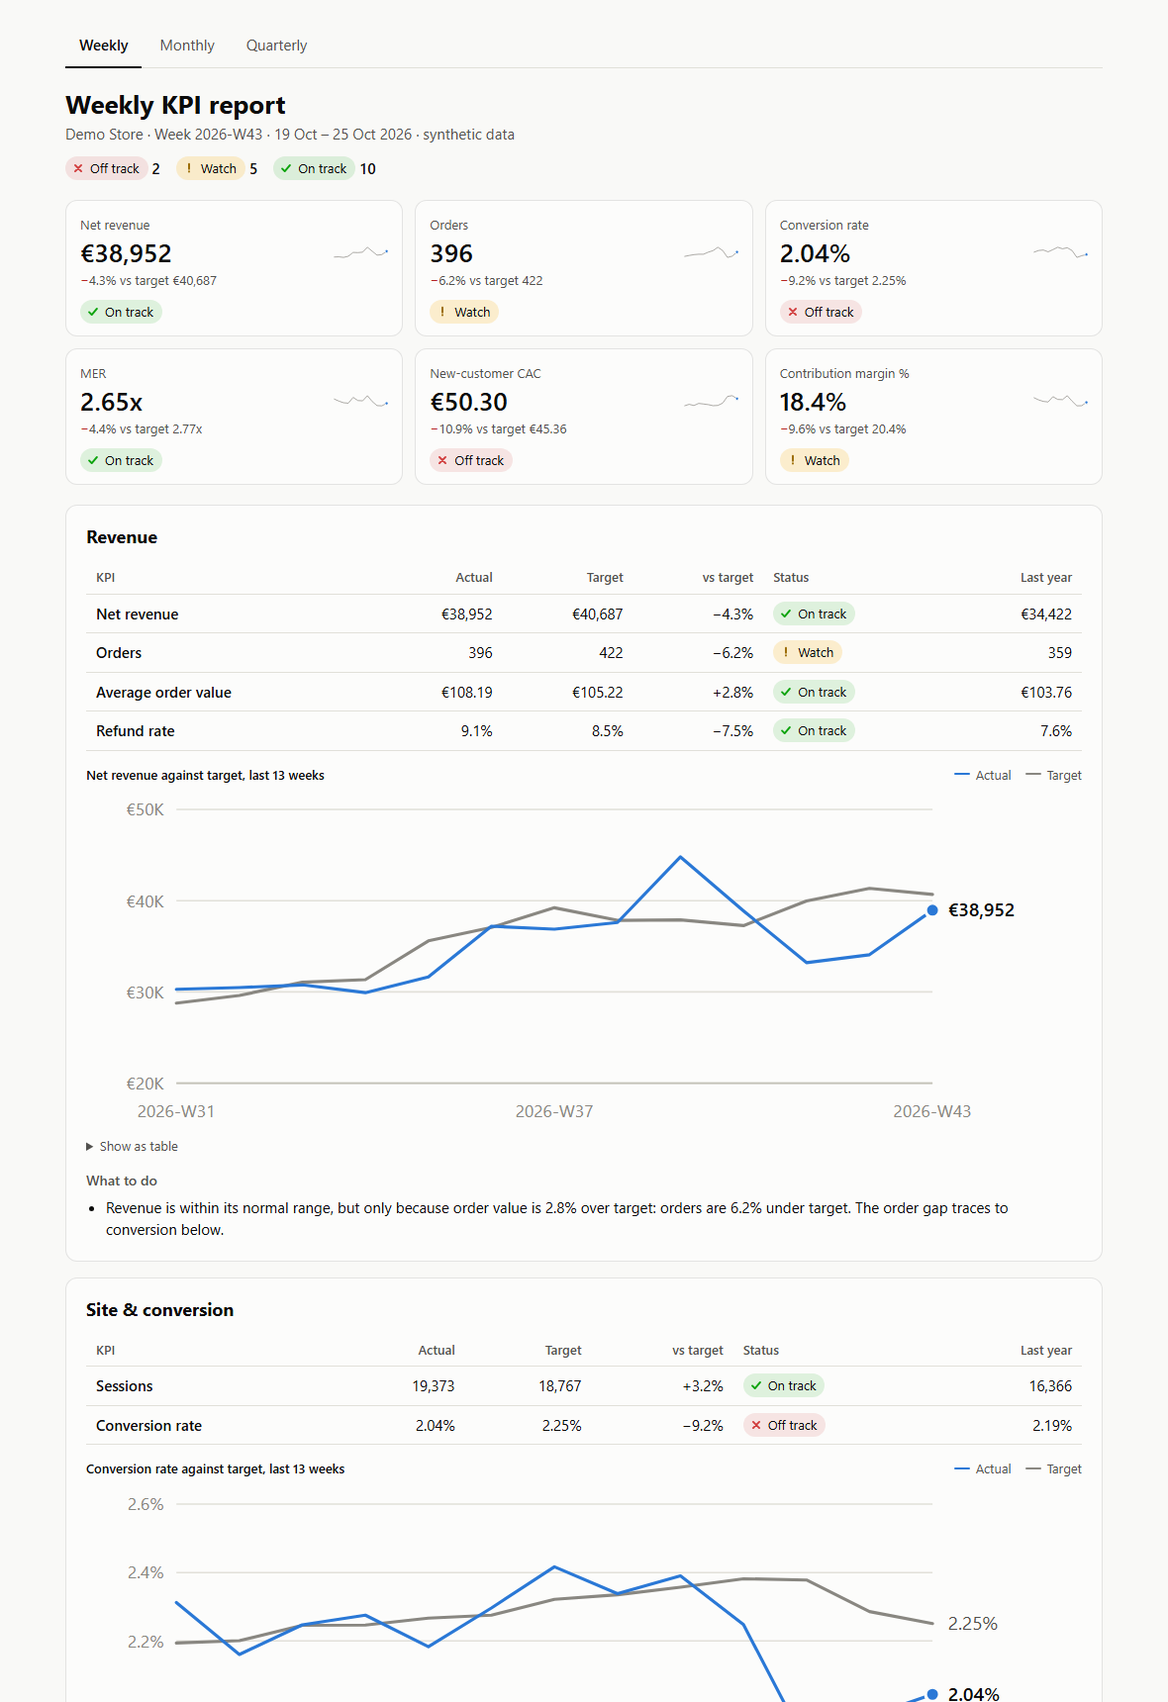
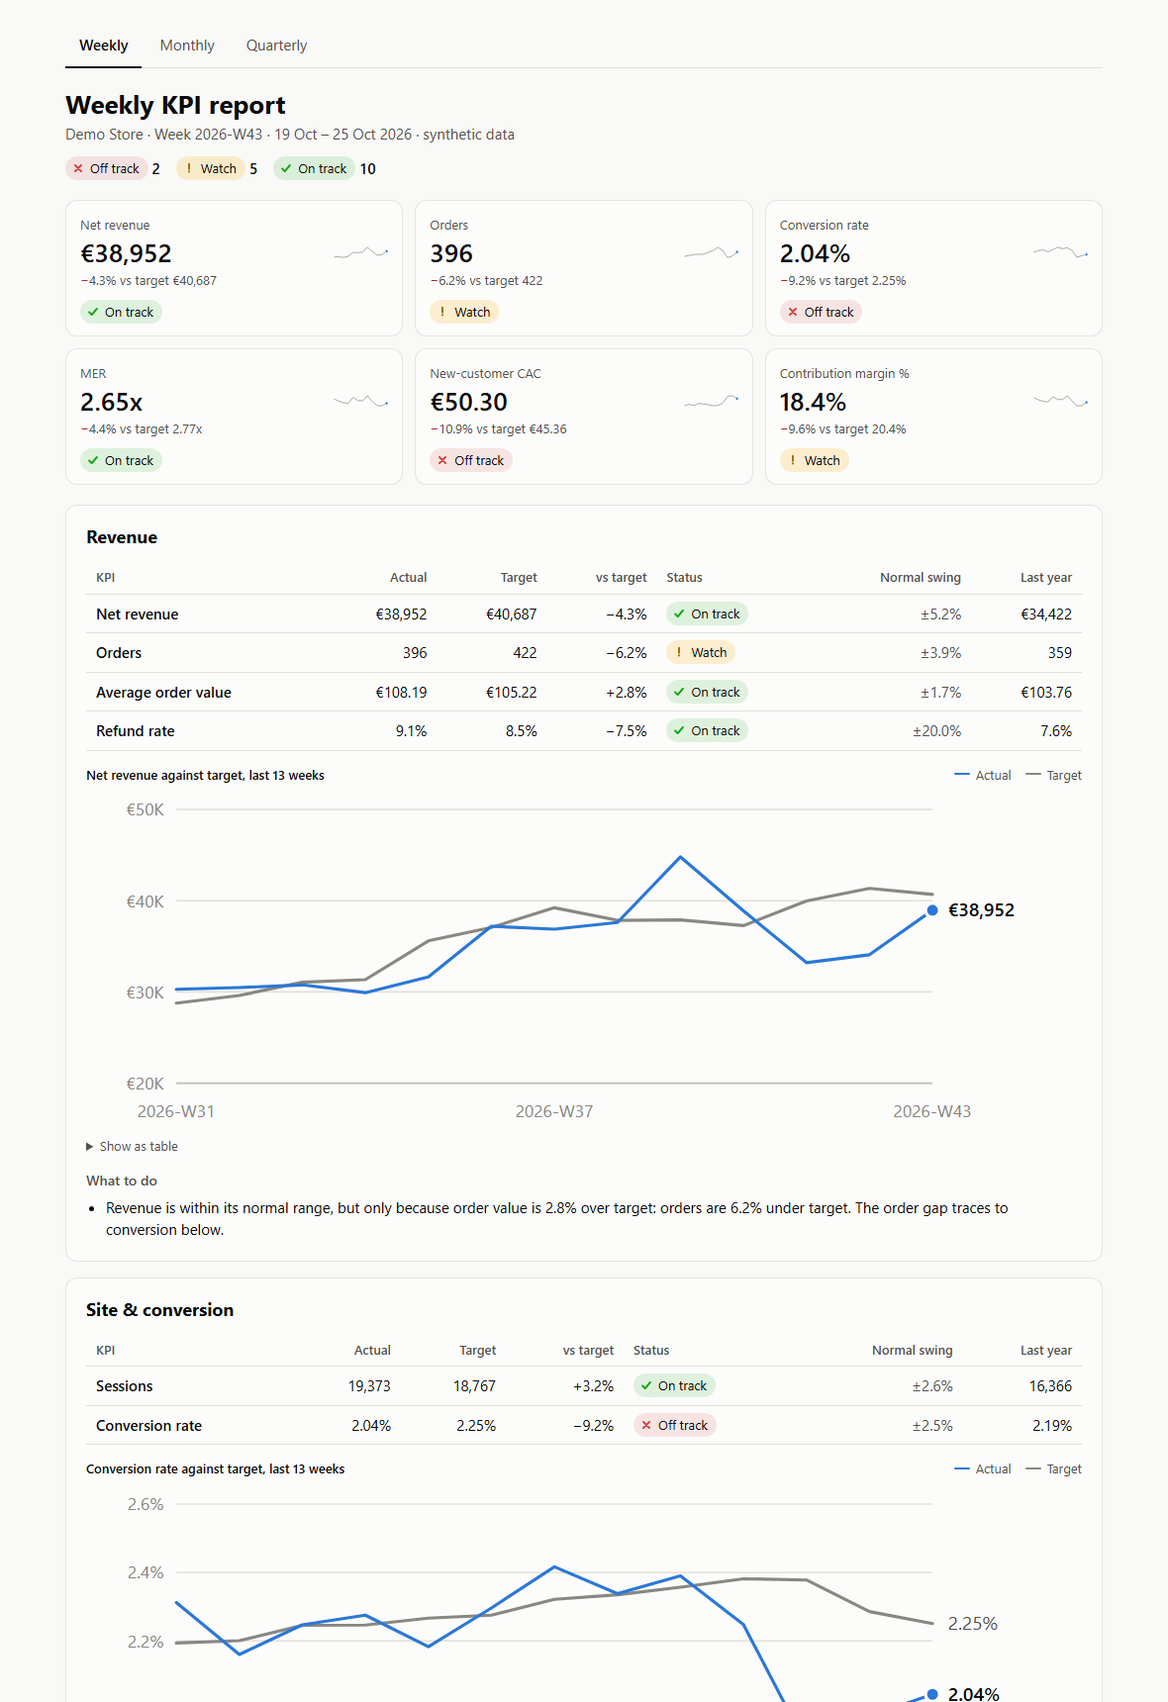
Show the charts, period picker and normal swing in Google Sheets
Google Sheets dropped chart series fed from hidden cells, and dropped the
period picker's list rule when its source started with "=". The chart data
now has its own visible tab, chart axes start near the data, and the list
source is stored bare.

Each KPI's normal swing (half its band) now has its own column in the
workbook and the HTML report, and the README and method describe statuses
in those terms.

diff --git a/kpi_kit/workbook.py b/kpi_kit/workbook.py
@@ -9,6 +9,7 @@ period.
 """
 from __future__ import annotations
 
+import math
 from datetime import datetime
 from pathlib import Path
 
@@ -34,6 +35,8 @@ from .targets import first_target_index
 FIRST_ROW = 3            # data and KPI tabs: two header rows, then one row per period
 SETTING_ROW = {"growth_min": 4, "growth_max": 5, "band_floor": 6, "band_cap": 7, "default_band": 8}
 CHART_PERIODS = {"week": 13, "month": 13, "quarter": 5}
+CHART_FIRST_COL = {"week": 1, "month": 8, "quarter": 15}  # each report's block on the Chart data tab
+SWING_FORMAT = '"±"0.0%'
 PERIOD_WORD = {"week": "Week", "month": "Month", "quarter": "Quarter"}
 ROW_CELL = "$X$5"        # report tabs: position of the chosen period in the KPI tab
 SECTION_START = 24       # report tabs: first section header row
@@ -88,7 +91,7 @@ def build_workbook(path: Path, cfg: Config, periods: dict[str, PeriodData], acti
     wb = Workbook()
     wb.remove(wb.active)
     order = ["Read me"] + [_sheet_names(g)[0] for g in GRAINS] + [_sheet_names(g)[1] for g in GRAINS] \
-        + [_sheet_names(g)[2] for g in GRAINS] + ["Actions", "KPI definitions", "Data checks", "Settings"]
+        + [_sheet_names(g)[2] for g in GRAINS] + ["Chart data", "Actions", "KPI definitions", "Data checks", "Settings"]
     for name in order:
         wb.create_sheet(name)
 
@@ -282,7 +285,7 @@ def _kpi_sheet(ws, grain: str, data: PeriodData, data_cols: dict[str, str]) -> d
 
 def _report_sheet(ws, grain: str, data: PeriodData, kpi_cols: dict[str, dict[str, str]], last_action_row: int,
                   default_key: str, cfg: Config) -> None:
-    report, kpi_tab, data_tab = _sheet_names(grain)
+    _, kpi_tab, data_tab = _sheet_names(grain)
     kpi_q, data_q = _q(kpi_tab), _q(data_tab)
     last = FIRST_ROW + len(data.table) - 1
     lag = WINDOWS[grain]["lag"]
@@ -309,7 +312,8 @@ def _report_sheet(ws, grain: str, data: PeriodData, kpi_cols: dict[str, dict[str
     ws["C5"].border = Border(left=HAIR, right=HAIR, top=HAIR, bottom=HAIR)
     ws["C5"].alignment = Alignment(horizontal="center")
     first_targeted = FIRST_ROW + first_target_index(data.table, next(k for k in KPIS if k.id == "net_rev"), grain)
-    dv = DataValidation(type="list", formula1=f"={kpi_q}!$A${first_targeted}:$A${last}", allow_blank=False)
+    # no leading "=": the file format stores list sources bare, and Google Sheets drops the rule otherwise
+    dv = DataValidation(type="list", formula1=f"{kpi_q}!$A${first_targeted}:$A${last}", allow_blank=False)
     dv.error = f"Pick a {word.lower()} from the list."
     dv.prompt = f"Pick any {word.lower()} with a target"
     ws.add_data_validation(dv)
@@ -324,19 +328,19 @@ def _report_sheet(ws, grain: str, data: PeriodData, kpi_cols: dict[str, dict[str
     ws["E5"].alignment = Alignment(horizontal="center")
     ws["G5"] = f"Pick any {word.lower()} in the yellow cell."
     ws["G5"].font = _font(color=d.MUTED, italic=True)
-    ws["B6"] = ("On track: within this KPI's normal variation.  Watch: a bigger miss than usual.  "
-                "Off track: far outside normal.  Bands come from each KPI's own past misses (see Read me).")
+    ws["B6"] = ("On track: the miss is within the KPI's normal swing.  Watch: up to twice its normal swing.  "
+                "Off track: more than twice.  Each KPI's normal swing comes from its own past misses (see Read me).")
     ws["B6"].font = _font(size=9, color=d.INK_2)
 
-    _trend_charts(ws, grain, kpi_cols, col)
+    _trend_charts(ws, grain, data, kpi_cols, col)
 
     r = SECTION_START
     status_cells = []
     for section in SECTIONS:
-        headers = [section, "Actual", "Target", "vs target", "Status", "Last year", "Note"]
+        headers = [section, "Actual", "Target", "vs target", "Status", "Normal swing", "Last year", "Note"]
         for j, h in enumerate(headers, start=2):
             ws.cell(r, j, h)
-        _style_header(ws[r][1:8])
+        _style_header(ws[r][1:9])
         ws.cell(r, 2).font = _font(bold=True, size=11)
         r += 1
         for kpi in [k for k in KPIS if k.section == section]:
@@ -345,8 +349,9 @@ def _report_sheet(ws, grain: str, data: PeriodData, kpi_cols: dict[str, dict[str
             ws[f"C{r}"] = f"={pick(c['actual'])}"
             ws[f"D{r}"] = f"={pick(c['target'])}"
             ws[f"E{r}"] = f"={pick(c['perf'])}"
-            ws[f"G{r}"] = f'=IF({ROW_CELL}>{lag},{pick(c["actual"], f"-{lag}")},"")'
-            ws[f"H{r}"] = NOTES.get(kpi.id, "")
+            ws[f"G{r}"] = f'=IF(ISNUMBER(E{r}),Y{r}/2,"")'  # half the band: the miss this KPI usually shows
+            ws[f"H{r}"] = f'=IF({ROW_CELL}>{lag},{pick(c["actual"], f"-{lag}")},"")'
+            ws[f"I{r}"] = NOTES.get(kpi.id, "")
             ws[f"Y{r}"] = (f'=IF(ISNUMBER({pick(c["band"])}),{pick(c["band"])},'
                            f'Settings!$B${SETTING_ROW["default_band"]})')
             ws[f"Z{r}"] = kpi.direction
@@ -354,10 +359,10 @@ def _report_sheet(ws, grain: str, data: PeriodData, kpi_cols: dict[str, dict[str
                            f'IF(E{r}<-Y{r},"Below plan","On plan")),IF(E{r}>=-Y{r}/2,"On track",'
                            f'IF(E{r}>=-Y{r},"Watch","Off track"))),"n/a")')
             for letter, fmt in [("C", d.NUMBER_FORMAT[kpi.fmt]), ("D", d.NUMBER_FORMAT[kpi.fmt]),
-                                ("E", d.PERF_FORMAT), ("G", d.NUMBER_FORMAT[kpi.fmt])]:
+                                ("E", d.PERF_FORMAT), ("G", SWING_FORMAT), ("H", d.NUMBER_FORMAT[kpi.fmt])]:
                 ws[f"{letter}{r}"].number_format = fmt
-            for letter in "BCDEFGH":
-                ws[f"{letter}{r}"].font = _font(color=d.INK_2 if letter == "H" else d.INK)
+            for letter in "BCDEFGHI":
+                ws[f"{letter}{r}"].font = _font(color=d.INK_2 if letter in "GI" else d.INK)
                 ws[f"{letter}{r}"].border = BOTTOM
             ws[f"F{r}"].alignment = Alignment(horizontal="center")
             status_cells.append(f"F{r}")
@@ -369,7 +374,7 @@ def _report_sheet(ws, grain: str, data: PeriodData, kpi_cols: dict[str, dict[str
             key = f'"{grain}|"&$C$5&"|{section}|{n}"'
             ws[f"B{r}"] = (f'=IFERROR("• "&INDEX(Actions!$F$2:$F${last_action_row},'
                            f'MATCH({key},Actions!$A$2:$A${last_action_row},0)),"")')
-            ws.merge_cells(start_row=r, start_column=2, end_row=r, end_column=8)
+            ws.merge_cells(start_row=r, start_column=2, end_row=r, end_column=9)
             ws[f"B{r}"].alignment = WRAP_TOP
             ws[f"B{r}"].font = _font()
             ws.row_dimensions[r].height = 28
@@ -380,9 +385,9 @@ def _report_sheet(ws, grain: str, data: PeriodData, kpi_cols: dict[str, dict[str
     for label, (_, tint) in d.STATUS.items():
         ws.conditional_formatting.add(rng, CellIsRule(operator="equal", formula=[f'"{label}"'],
                                                       fill=_fill(tint), font=Font(name=d.FONT, color=d.INK)))
-    for letter, width in zip("ABCDEFGH", [2, 30, 14, 14, 11, 12, 14, 44]):
+    for letter, width in zip("ABCDEFGHI", [2, 30, 14, 14, 11, 12, 13, 14, 40]):
         ws.column_dimensions[letter].width = width
-    for letter in ["X", "Y", "Z", "AA", "AB", "AC", "AD", "AE"]:
+    for letter in ["X", "Y", "Z"]:
         ws.column_dimensions[letter].hidden = True
     ws.freeze_panes = "A7"
     ws.page_setup.orientation = "landscape"
@@ -390,37 +395,65 @@ def _report_sheet(ws, grain: str, data: PeriodData, kpi_cols: dict[str, dict[str
     ws.sheet_properties.pageSetUpPr.fitToPage = True
 
 
-def _trend_charts(ws, grain: str, kpi_cols: dict[str, dict[str, str]], col) -> None:
-    """Hidden helper table of the last N periods, and two line charts on top of it."""
+def _axis_floor(values: pd.Series, money: bool) -> float:
+    """A round number a bit under the lowest value, so the axis doesn't flatten small changes against zero."""
+    low = float(values.min()) * 0.85
+    if low <= 0:
+        return 0.0
+    step = 10 ** math.floor(math.log10(low)) / 2 if money else 0.0025
+    return math.floor(low / step) * step
+
+
+def _trend_charts(ws, grain: str, data: PeriodData, kpi_cols: dict[str, dict[str, str]], col) -> None:
+    """Two line charts on the report, fed by this report's block on the Chart data tab.
+
+    The chart data lives on its own visible tab: spreadsheet charts skip hidden
+    cells by default, and Google Sheets drops such series on import.
+    """
+    targeted = data.table.iloc[first_target_index(data.table, next(k for k in KPIS if k.id == "net_rev"), grain):]
+    floors = {"net": _axis_floor(targeted["net_rev"], money=True),
+              "cr": _axis_floor(targeted["orders"] / targeted["sessions"], money=False)}
+    data_ws = ws.parent["Chart data"]
+    row_cell = f"{_q(ws.title)}!{ROW_CELL}"
     n = CHART_PERIODS[grain]
-    head = 7
-    series = [("AA", None, "Period"), ("AB", ("net_rev", "actual"), "Net revenue"),
-              ("AC", ("net_rev", "target"), "Target"), ("AD", ("cr", "actual"), "Conversion rate"),
-              ("AE", ("cr", "target"), "Target")]
-    for letter, source, title in series:
-        ws[f"{letter}{head}"] = title
+    c0 = CHART_FIRST_COL[grain]
+    head = 3
+    unit = {"week": "weeks", "month": "months", "quarter": "quarters"}[grain]
+    data_ws.cell(1, c0, f"{ws.title}: last {n} {unit} up to the chosen one").font = _font(bold=True)
+    series = [(None, "Period", None), (("net_rev", "actual"), "Net revenue", d.NUMBER_FORMAT["money"]),
+              (("net_rev", "target"), "Target", d.NUMBER_FORMAT["money"]),
+              (("cr", "actual"), "Conversion rate", d.NUMBER_FORMAT["pct2"]),
+              (("cr", "target"), "Target", d.NUMBER_FORMAT["pct2"])]
+    for j, (source, title, fmt) in enumerate(series):
+        letter = get_column_letter(c0 + j)
+        data_ws[f"{letter}{head}"] = title
+        _style_header([data_ws[f"{letter}{head}"]])
+        data_ws.column_dimensions[letter].width = 13
         for k in range(n):
-            r = head + 1 + k
             back = n - 1 - k
             column = "A" if source is None else kpi_cols[source[0]][source[1]]
-            value = f"INDEX({col(column)},{ROW_CELL}{f'-{back}' if back else ''})"
+            value = f"INDEX({col(column)},{row_cell}{f'-{back}' if back else ''})"
             shown = value if source is None else f'IF(ISNUMBER({value}),{value},"")'
-            ws[f"{letter}{r}"] = f'=IF({ROW_CELL}>{back},{shown},"")'
-    unit = {"week": "weeks", "month": "months", "quarter": "quarters"}[grain]
-    charts = [("Net revenue vs target", "AB", "AC", '"€"#,##0', "B8"),
-              ("Conversion rate vs target", "AD", "AE", "0.0%", "F8")]
-    cats = Reference(ws, min_col=27, min_row=head + 1, max_row=head + n)  # AA
-    for title, a, b, fmt, anchor in charts:
+            cell = data_ws[f"{letter}{head + 1 + k}"]
+            cell.value = f'=IF({row_cell}>{back},{shown},"")'
+            cell.font = _font()
+            if fmt:
+                cell.number_format = fmt
+    cats = Reference(data_ws, min_col=c0, min_row=head + 1, max_row=head + n)
+    charts = [("Net revenue vs target", c0 + 1, '"€"#,##0', "B8", 12.6, floors["net"]),
+              ("Conversion rate vs target", c0 + 3, "0.0%", "F8", 14.6, floors["cr"])]
+    for title, first_col, fmt, anchor, width, floor in charts:
         chart = LineChart()
         chart.title = f"{title}, last {n} {unit}"
-        chart.height, chart.width = 7.4, 12.6 if anchor == "B8" else 14.2
-        first_col = ws[f"{a}{head}"].column
-        chart.add_data(Reference(ws, min_col=first_col, max_col=first_col + 1, min_row=head, max_row=head + n),
+        chart.height, chart.width = 7.4, width
+        chart.y_axis.scaling.min = floor
+        chart.add_data(Reference(data_ws, min_col=first_col, max_col=first_col + 1, min_row=head, max_row=head + n),
                        titles_from_data=True)
         chart.set_categories(cats)
-        for s, color, width in zip(chart.series, [d.ACCENT, d.MUTED], [28575, 19050]):
+        chart.visible_cells_only = False
+        for s, color, line_width in zip(chart.series, [d.ACCENT, d.MUTED], [28575, 19050]):
             s.graphicalProperties.line.solidFill = color
-            s.graphicalProperties.line.width = width
+            s.graphicalProperties.line.width = line_width
             s.smooth = False
             s.marker = Marker(symbol="none")
         chart.y_axis.number_format = fmt
@@ -484,16 +517,17 @@ def _read_me(ws, cfg: Config, defaults: dict[str, str]) -> None:
                  "than a small one."),
         ("head", "How status is decided"),
         ("text", "Each KPI misses its target by a different amount in a normal period: revenue might swing ±5% "
-                 "week to week while conversion rate barely moves. The band is the spread (interquartile range) of "
-                 "the KPI's own misses over the previous periods. A miss within half the band is On track, within "
-                 "the band is Watch, and beyond it is Off track. So a 4% revenue miss can be normal while a 4% "
-                 "conversion miss is not."),
+                 "week to week while conversion rate barely moves. A KPI's normal swing is half the spread "
+                 "(interquartile range) of its own misses over the previous periods, shown in the report's Normal "
+                 "swing column. A miss within the normal swing is On track, up to twice the swing is Watch, and "
+                 "beyond that is Off track. So a 4% revenue miss can be normal while a 4% conversion miss is not."),
         ("head", "Colour code"),
         ("text", "Blue numbers come from the exports. Black numbers are formulas. Yellow cells are settings you "
                  "can change (period pickers, Settings tab)."),
         ("head", "Tabs"),
         ("text", "Weekly, Monthly and Quarterly report: the reports. KPIs tabs: actual, target, miss and band for "
-                 "every period, all formulas. Data tabs: the brand's numbers per period. Actions: the "
+                 "every period, all formulas. Data tabs: the brand's numbers per period. Chart data: the figures "
+                 "behind the report charts, following each report's chosen period. Actions: the "
                  "recommendations behind each report section, written by rules from the numbers. KPI definitions, "
                  "Data checks (everything the cleaning step fixed or flagged), Settings."),
         ("head", "Cost assumptions"),

diff --git a/kpi_kit/html_report.py b/kpi_kit/html_report.py
@@ -13,7 +13,7 @@ from pathlib import Path
 import numpy as np
 import pandas as pd
 
-from .config import GRAIN_LABEL, WINDOWS, Config
+from .config import DEFAULT_BAND, GRAIN_LABEL, WINDOWS, Config
 from .facts import GRAINS, PeriodData
 from .kpis import KPI_BY_ID, KPIS, SECTIONS
 
@@ -194,9 +194,11 @@ def _panel(grain: str, key: str, data: PeriodData, results: dict[str, pd.DataFra
         for k in [k for k in KPIS if k.section == section]:
             r = results[k.id].loc[key]
             ly = results[k.id]["actual"].iloc[pos - lag] if pos >= lag else np.nan
+            band = r["band"] if np.isfinite(r["band"]) else DEFAULT_BAND
+            swing = f"±{band * 50:.1f}%" if np.isfinite(r["perf"]) else "–"  # half the band
             rows.append(f"<tr><th scope='row'>{escape(k.label)}</th><td>{fmt(r['actual'], k.fmt)}</td>"
                         f"<td>{fmt(r['target'], k.fmt)}</td><td>{signed(r['perf'])}</td><td>{chip(r['status'])}</td>"
-                        f"<td>{fmt(ly, k.fmt)}</td></tr>")
+                        f"<td class='swing'>{swing}</td><td>{fmt(ly, k.fmt)}</td></tr>")
         acts = actions[(actions["grain"] == grain) & (actions["key"] == key) & (actions["section"] == section)]
         items = "".join(f"<li>{escape(t)}</li>" for t in acts["text"])
         chart = _chart(f"c-{grain}-{SECTIONS.index(section)}", SECTION_CHART[section], results[SECTION_CHART[section]],
@@ -205,7 +207,7 @@ def _panel(grain: str, key: str, data: PeriodData, results: dict[str, pd.DataFra
 <section class="card">
   <h2>{escape(section)}</h2>
   <div class="scroll"><table class="kpis">
-    <thead><tr><th>KPI</th><th>Actual</th><th>Target</th><th>vs target</th><th>Status</th><th>Last year</th></tr></thead>
+    <thead><tr><th>KPI</th><th>Actual</th><th>Target</th><th>vs target</th><th>Status</th><th>Normal swing</th><th>Last year</th></tr></thead>
     <tbody>{''.join(rows)}</tbody></table></div>
   {chart}
   <h3>What to do</h3>
@@ -309,6 +311,7 @@ table { border-collapse: collapse; width: 100%; font-variant-numeric: tabular-nu
 .kpis th, .kpis td { padding: 7px 10px; border-bottom: 1px solid var(--grid); text-align: right; white-space: nowrap; }
 .kpis th:first-child { text-align: left; font-weight: 500; }
 .kpis td:nth-child(5), .kpis thead th:nth-child(5) { text-align: left; }
+.kpis td.swing { color: var(--ink-2); }
 .kpis thead th { color: var(--ink-2); font-weight: 500; font-size: 13px; }
 .actions { margin: 0; padding-left: 20px; } .actions li { margin: 4px 0; }
 .chart { margin: 14px 0 0; }
@@ -348,8 +351,9 @@ footer { color: var(--muted); font-size: 13px; margin-top: 24px; }
 <main>
 <nav role="tablist" aria-label="Report period">{{TABS}}</nav>
 {{PANELS}}
-<footer>Targets come from the brand's own history: the same period last year scaled by current growth. Status bands
-come from each KPI's own past misses. Built with Claude Code from raw store, ad and analytics exports.</footer>
+<footer>Targets come from the brand's own history: the same period last year scaled by current growth. Each KPI's
+normal swing comes from its own past misses: a miss within it is on track, up to twice it is watch, beyond that is off
+track. Built with Claude Code from raw store, ad and analytics exports.</footer>
 </main>
 <script>
 (() => {

diff --git a/docs/method.md b/docs/method.md
@@ -26,21 +26,21 @@ target  = anchor × min(1.5, max(0.67, growth))
 - **No target on a half-empty year.** A target appears only once every window it needs has data. With three years of exports, weekly targets start in February 2025.
 - **What a target means.** It asks whether this period is in line with the brand's own trajectory for the season. It doesn't encode an ambition. An agreed goal, such as an MER floor, belongs in a separate column so it never gets mistaken for the data-driven target.
 
-## Status bands
+## Normal swing and status
 
-The band is the interquartile range of the KPI's own misses (actual ÷ target − 1) over the previous 13 weeks (6 months, 4 quarters), kept between 2% and 40%.
+The band is the interquartile range of the KPI's own misses (actual ÷ target − 1) over the previous 13 weeks (6 months, 4 quarters), kept between 2% and 40%. Half of it is the KPI's normal swing, which the report shows next to every status.
 
 | Status | Miss |
 |---|---|
-| On track | within half the band |
-| Watch | within the band |
-| Off track | beyond the band |
+| On track | within the normal swing |
+| Watch | up to twice the normal swing |
+| Off track | more than twice the normal swing |
 
-- **Each KPI gets its own band.** This store's weekly revenue band is about 11%, while conversion rate's is about 4%. Over the last 52 weeks, a flat 5% rule would flag revenue 17 times, against 5 Off track weeks from its own band. It would catch only 7 conversion misses to the band's 9.
+- **Each KPI gets its own swing.** This store's weekly revenue usually swings about ±5–6% around target, while conversion rate swings about ±2%. Over the last 52 weeks, a flat 5% rule would flag revenue 17 times, against 5 Off track weeks from its own swing. It would catch only 7 conversion misses to the swing's 9.
 - **Interquartile range, not standard deviation.** One Black Friday miss in the window would blow a standard deviation wide open. The interquartile range shrugs it off.
 - **Lower-is-better KPIs flip the sign.** CAC and refund rate flip, so a negative miss always means worse.
 - **Ad spend is paced, not judged.** It shows Above plan or Below plan against its trajectory; spending more isn't good or bad by itself.
-- **New KPIs use a default band.** A KPI without a full window of past misses uses a 10% band.
+- **New KPIs use a default.** A KPI without a full window of past misses uses a 10% band, a ±5% normal swing.
 
 ## Data choices
 

diff --git a/README.md b/README.md
@@ -34,15 +34,15 @@ target = same period last year × (last 13 weeks ÷ the same 13 weeks a year ear
 - Growth is capped between −33% and +50%.
 - Ratio KPIs (conversion rate, MER, CAC, margins) use ratios of sums.
 
-**Status.** Each KPI misses its target by a different amount in a normal period. The band is the interquartile range of the KPI's own misses over the previous 13 weeks (6 months, 4 quarters):
+**Status.** Each KPI misses its target by a different amount in a normal period. Its normal swing is half the interquartile range of its own misses over the previous 13 weeks (6 months, 4 quarters). The report shows it next to every status:
 
 | Status | Miss |
 |---|---|
-| On track | within half the band |
-| Watch | within the band |
-| Off track | beyond the band |
+| On track | within the normal swing |
+| Watch | up to twice the normal swing |
+| Off track | more than twice the normal swing |
 
-In the demo week, revenue is 4.3% under target and On track, because this store's weekly revenue normally misses by about ±11%. Conversion rate is 9.2% under target and Off track, because conversion normally barely moves.
+In the demo week, revenue is 4.3% under target against a normal swing of ±5.2%, so it's On track. Conversion rate is 9.2% under target against a normal swing of ±2.5%, so it's Off track.
 
 The bands also beat a flat ±5% rule over the last 52 weeks:
 
